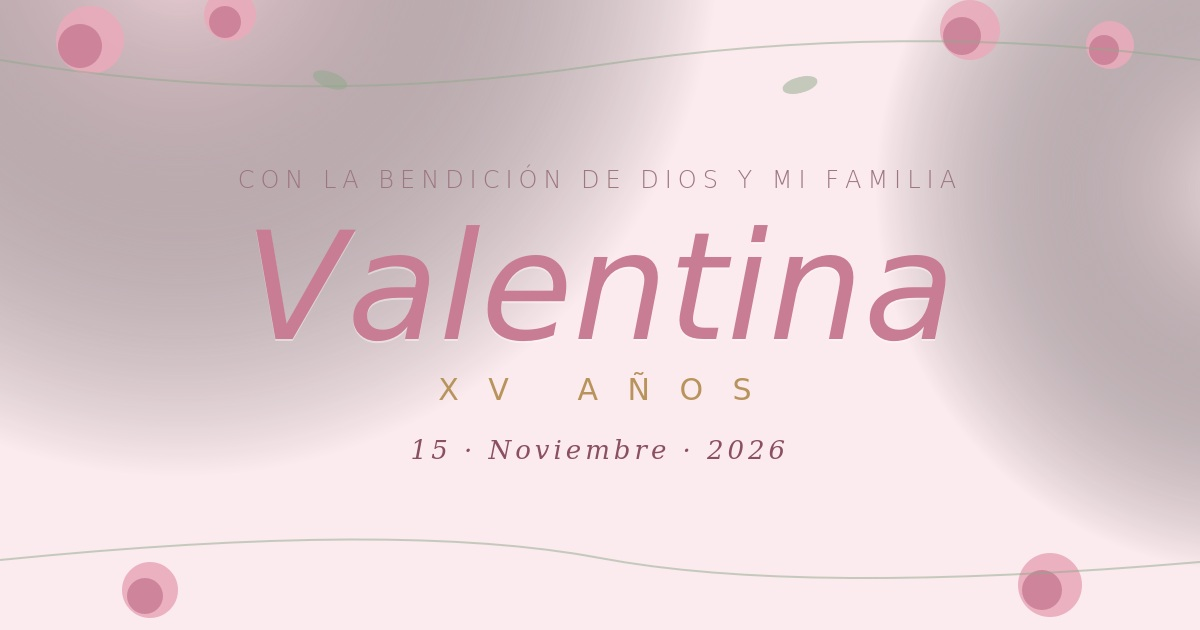
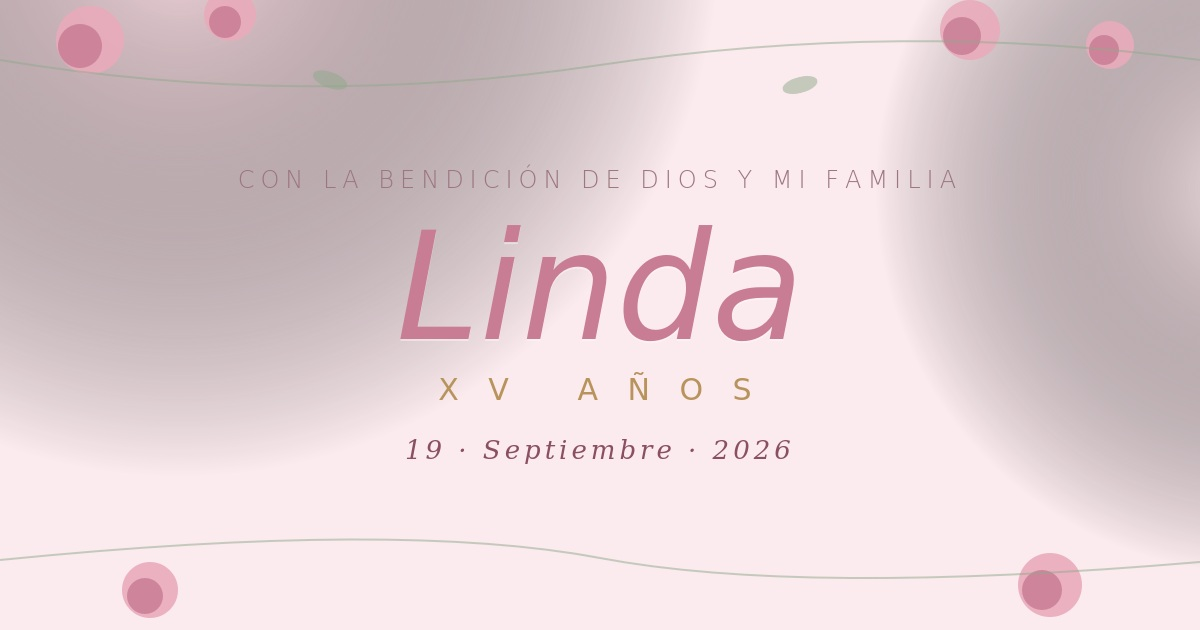
Inicio de proyecto-Front-Back

diff --git a/index.html b/index.html
@@ -3,14 +3,20 @@
 <head>
 <meta charset="UTF-8">
 <meta name="viewport" content="width=device-width, initial-scale=1.0">
-<title>Mis XV Años · Valentina</title>
+<title>Mis XV Años · Linda Hernández</title>
 <meta name="description" content="Invitación digital a mis XV años">
 
+<link rel="preconnect" href="https://fonts.googleapis.com">
+<link rel="preconnect" href="https://fonts.gstatic.com" crossorigin>
+<link href="https://fonts.googleapis.com/css2?family=Cormorant+Garamond:ital,wght@0,400;0,500;0,600;1,400&family=Alex+Brush&family=Jost:wght@300;400;500;600&display=swap" rel="stylesheet">
+
+<link rel="stylesheet" href="css/style.css">
+
 <!-- ===================== VISTA PREVIA AL COMPARTIR (WhatsApp, Facebook, Telegram, etc.) ===================== -->
-<!-- og:image y og:url deben ser URLs absolutas y públicas — reemplaza el dominio si cambia -->
+<!-- og:image y og:url deben ser URLs absolutas y públicas — actualiza el dominio si lo cambias -->
 <meta property="og:type" content="website">
-<meta property="og:title" content="Mis XV Años · Valentina">
-<meta property="og:description" content="Con la bendición de Dios y mi familia, te invito a celebrar mis XV años el 15 de noviembre de 2026. ¡Espero contar contigo!">
+<meta property="og:title" content="Mis XV Años · Linda Hernández">
+<meta property="og:description" content="Con la bendición de Dios y mi familia, te invito a celebrar mis XV años el 19 de septiembre de 2026. ¡Espero contar contigo!">
 <meta property="og:image" content="https://quince-invitacion-vercel.vercel.app/assets/og-image.jpg">
 <meta property="og:image:width" content="1200">
 <meta property="og:image:height" content="630">
@@ -18,15 +24,9 @@
 <meta property="og:locale" content="es_ES">
 
 <meta name="twitter:card" content="summary_large_image">
-<meta name="twitter:title" content="Mis XV Años · Valentina">
-<meta name="twitter:description" content="Con la bendición de Dios y mi familia, te invito a celebrar mis XV años el 15 de noviembre de 2026.">
+<meta name="twitter:title" content="Mis XV Años · Linda Hernández">
+<meta name="twitter:description" content="Con la bendición de Dios y mi familia, te invito a celebrar mis XV años el 19 de septiembre de 2026.">
 <meta name="twitter:image" content="https://quince-invitacion-vercel.vercel.app/assets/og-image.jpg">
-
-<link rel="preconnect" href="https://fonts.googleapis.com">
-<link rel="preconnect" href="https://fonts.gstatic.com" crossorigin>
-<link href="https://fonts.googleapis.com/css2?family=Cormorant+Garamond:ital,wght@0,400;0,500;0,600;1,400&family=Alex+Brush&family=Jost:wght@300;400;500;600&display=swap" rel="stylesheet">
-
-<link rel="stylesheet" href="css/style.css">
 </head>
 <body class="gate-active">
 
@@ -48,7 +48,7 @@
 
   <div class="gate__content">
     <p class="gate__eyebrow">Con la bendición de Dios y mi familia</p>
-    <h1 class="gate__name">Valentina</h1>
+    <h1 class="gate__name">Linda</h1>
     <p class="gate__xv">XV AÑOS</p>
     <p class="gate__quote">
       Hay momentos inolvidables que se atesoran en el corazón para siempre.
@@ -85,7 +85,7 @@
 
 <!-- ===================== BOTÓN DE MÚSICA ===================== -->
 <audio id="bgMusic" loop preload="none">
-  <source src="assets/music/cancion.mp3" type="audio/mpeg">
+  <source src="assets/music/LovethemefromRomeo.mp3" type="audio/mpeg">
 </audio>
 <button id="musicToggle" class="music-toggle" aria-label="Reproducir música" aria-pressed="false">
   <span class="music-icon"><span class="bar"></span><span class="bar"></span><span class="bar"></span></span>
@@ -100,7 +100,6 @@
   <a href="#vestimenta" data-label="Vestimenta"></a>
   <a href="#detalles" data-label="Ubicación"></a>
   <a href="#galeria" data-label="Galería"></a>
-  <a href="#video" data-label="Video"></a>
   <a href="#rsvp" data-label="Confirmar"></a>
 </nav>
 
@@ -109,23 +108,19 @@
   <p class="hero__eyebrow reveal">Tenemos el honor de invitarlos a la celebración de los XV años de nuestra hija</p>
 
   <div class="hero__frame reveal">
-    <img src="assets/gallery/foto1.jpg" alt="Retrato de Valentina">
+    <img src="assets/gallery/image01.jpeg" alt="Retrato de Linda Hernández">
   </div>
 
-  <h1 class="hero__name reveal">Valentina</h1>
+  <h1 class="hero__name reveal">Linda</h1>
+  <p class="hero__apellido reveal">Hernández</p>
   <p class="hero__subtitle reveal">Que se llevará a cabo el día</p>
 
   <div class="hero__badge reveal">
     <span>Sábado</span>
-    <strong>15</strong>
-    <span>Noviembre</span>
+    <strong>19</strong>
+    <span>Septiembre</span>
   </div>
   <p class="hero__year reveal">2026</p>
-
-  <p class="hero__padrinos-label reveal">Padrinos de honor</p>
-  <p class="hero__padrinos reveal">Jorge Luis y Brenda</p>
-
-  <a href="#carta" class="scroll-cue" aria-label="Bajar"><span></span></a>
 </header>
 
 <main>
@@ -141,7 +136,7 @@
         pedacito de mi corazón, hecha con la misma ilusión con la que espero
         abrazarte ese día.
       </p>
-      <p class="carta__firma">Con cariño, Valentina</p>
+      <p class="carta__firma">Con cariño, Linda</p>
     </div>
   </section>
 
@@ -150,7 +145,7 @@
     <div class="section__inner reveal">
       <span class="section__eyebrow">Falta poco</span>
       <h2 class="section__title">La cuenta regresiva ya empezó</h2>
-      <div id="countdown" class="countdown" data-date="2026-11-15T18:00:00">
+      <div id="countdown" class="countdown" data-date="2026-09-19T18:00:00">
         <div class="countdown__item"><span class="countdown__num" id="cd-days">00</span><span class="countdown__label">Días</span></div>
         <div class="countdown__item"><span class="countdown__num" id="cd-hours">00</span><span class="countdown__label">Horas</span></div>
         <div class="countdown__item"><span class="countdown__num" id="cd-mins">00</span><span class="countdown__label">Min</span></div>
@@ -213,25 +208,15 @@
       <span class="section__eyebrow">Ubicación</span>
       <h2 class="section__title">Dónde y cuándo</h2>
 
-      <div class="detalles__grid">
-        <article class="detalle-card">
-          <h3>Ceremonia religiosa</h3>
-          <p class="detalle-card__hora">7:30 p.m.</p>
-          <p>Parroquia Nuestra Señora del Rosario<br>Calle 10 # 45 - 20, Medellín</p>
-          <div class="mapa-wrap">
-            <iframe title="Mapa Parroquia Nuestra Señora del Rosario" src="https://www.google.com/maps?q=Parroquia+Nuestra+Se%C3%B1ora+del+Rosario+Medell%C3%ADn&output=embed" loading="lazy" referrerpolicy="no-referrer-when-downgrade"></iframe>
-          </div>
-          <a class="btn-link" href="https://www.google.com/maps?q=Parroquia+Nuestra+Se%C3%B1ora+del+Rosario+Medell%C3%ADn" target="_blank" rel="noopener">Cómo llegar →</a>
-        </article>
-
+      <div class="detalles__grid detalles__grid--single">
         <article class="detalle-card">
           <h3>Recepción</h3>
           <p class="detalle-card__hora">7:00 p.m.</p>
-          <p>Salón de Eventos Jardín Botánico<br>Carrera 52 # 73 - 30, Medellín</p>
+          <p>Salón de Eventos Imperial Eventos Deluxe<br>Cr 40ªª Nº 48ª -12 Sector UCO Rionegro- Antioquia</p>
           <div class="mapa-wrap">
-            <iframe title="Mapa Salón de Eventos" src="https://www.google.com/maps?q=Jard%C3%ADn+Bot%C3%A1nico+Medell%C3%ADn&output=embed" loading="lazy" referrerpolicy="no-referrer-when-downgrade"></iframe>
+            <iframe src="https://www.google.com/maps/embed?pb=!4v1784564524946!6m8!1m7!1sCOvTRbTPuU5mPLvsMMZbUw!2m2!1d6.188724376340286!2d-75.36359884954642!3f325.46288285307287!4f8.27229985678568!5f0.7820865974627469" width="600" height="450" style="border:0;" allowfullscreen="" loading="lazy" referrerpolicy="strict-origin-when-cross-origin"></iframe>
           </div>
-          <a class="btn-link" href="https://www.google.com/maps?q=Jard%C3%ADn+Bot%C3%A1nico+Medell%C3%ADn" target="_blank" rel="noopener">Cómo llegar →</a>
+          <a class="btn-link" href="https://www.google.com/maps/place/Imperial+Eventos+Deluxe/@6.1887244,-75.3635988,3a,75y,325.46h,98.27t/data=!3m7!1e1!3m5!1sCOvTRbTPuU5mPLvsMMZbUw!2e0!6shttps:%2F%2Fstreetviewpixels-pa.googleapis.com%2Fv1%2Fthumbnail%3Fcb_client%3Dmaps_sv.tactile%26w%3D900%26h%3D600%26pitch%3D-8.27229985678568%26panoid%3DCOvTRbTPuU5mPLvsMMZbUw%26yaw%3D325.46288285307287!7i16384!8i8192!4m10!1m2!2m1!1simperial+eventos+deluxe+rionegro!3m6!1s0x8e469fbdc4b23857:0x35bf617a5ab5388d!8m2!3d6.1887534!4d-75.363865!15sCiBpbXBlcmlhbCBldmVudG9zIGRlbHV4ZSByaW9uZWdyb5IBFmZ1bmN0aW9uX3Jvb21fZmFjaWxpdHngAQA!16s%2Fg%2F11xs993pyw?entry=ttu&g_ep=EgoyMDI2MDcxNS4wIKXMDSoASAFQAw%3D%3D" target="_blank" rel="noopener">Cómo llegar →</a>
         </article>
       </div>
     </div>
@@ -243,9 +228,9 @@
       <span class="section__eyebrow">Recuerdos</span>
       <h2 class="section__title">Galería de fotos</h2>
       <div class="galeria__grid" id="galeriaGrid">
-        <button class="galeria__item" data-full="assets/gallery/foto1.jpg"><img src="assets/gallery/foto1.jpg" alt="Foto 1" loading="lazy"></button>
-        <button class="galeria__item" data-full="assets/gallery/foto2.jpg"><img src="assets/gallery/foto2.jpg" alt="Foto 2" loading="lazy"></button>
-        <button class="galeria__item" data-full="assets/gallery/foto3.jpg"><img src="assets/gallery/foto3.jpg" alt="Foto 3" loading="lazy"></button>
+        <button class="galeria__item" data-full="assets/gallery/image01.jpeg"><img src="assets/gallery/image01.jpeg" alt="Foto 1" loading="lazy"></button>
+        <button class="galeria__item" data-full="assets/gallery/image02.jpeg"><img src="assets/gallery/image02.jpeg" alt="Foto 2" loading="lazy"></button>
+        <button class="galeria__item" data-full="assets/gallery/image03.jpeg"><img src="assets/gallery/image03.jpeg" alt="Foto 3" loading="lazy"></button>
         <button class="galeria__item" data-full="assets/gallery/foto4.jpg"><img src="assets/gallery/foto4.jpg" alt="Foto 4" loading="lazy"></button>
         <button class="galeria__item" data-full="assets/gallery/foto5.jpg"><img src="assets/gallery/foto5.jpg" alt="Foto 5" loading="lazy"></button>
         <button class="galeria__item" data-full="assets/gallery/foto6.jpg"><img src="assets/gallery/foto6.jpg" alt="Foto 6" loading="lazy"></button>
@@ -258,25 +243,15 @@
     <img src="" alt="" id="lightboxImg">
   </div>
 
-  <!-- ===================== VIDEO ===================== -->
-  <section id="video" class="section video-section">
-    <div class="section__inner reveal">
-      <span class="section__eyebrow">Un momento en movimiento</span>
-      <h2 class="section__title">Mi video de invitación</h2>
-      <div class="video-wrap">
-        <iframe src="https://www.youtube.com/embed/VIDEO_ID" title="Video de invitación" loading="lazy" allow="accelerometer; autoplay; clipboard-write; encrypted-media; gyroscope; picture-in-picture" allowfullscreen></iframe>
-      </div>
-    </div>
-  </section>
-
   <!-- ===================== RSVP ===================== -->
   <section id="rsvp" class="section rsvp">
     <div class="section__inner reveal">
       <span class="section__eyebrow">Confirma tu lugar</span>
       <h2 class="section__title">¿Nos acompañas?</h2>
-      <p class="rsvp__sub">Por favor confirma tu asistencia antes del 1 de noviembre.</p>
+      <p class="rsvp__sub">Por favor confirma tu asistencia antes del 1 de septiembre.</p>
 
       <form id="rsvpForm" class="rsvp-form" data-endpoint="/api/rsvp">
+
         <div class="field">
           <label for="nombre">Nombre completo</label>
           <input type="text" id="nombre" name="nombre" required autocomplete="name">
@@ -309,7 +284,7 @@
 <footer class="footer">
   <p class="footer__ornament" aria-hidden="true">✦</p>
   <p>Gracias por ser parte de este capítulo</p>
-  <p class="footer__hashtag">#ValeXV2026</p>
+  <p class="footer__hashtag">#LindaXV2026</p>
 </footer>
 
 <script src="js/script.js"></script>